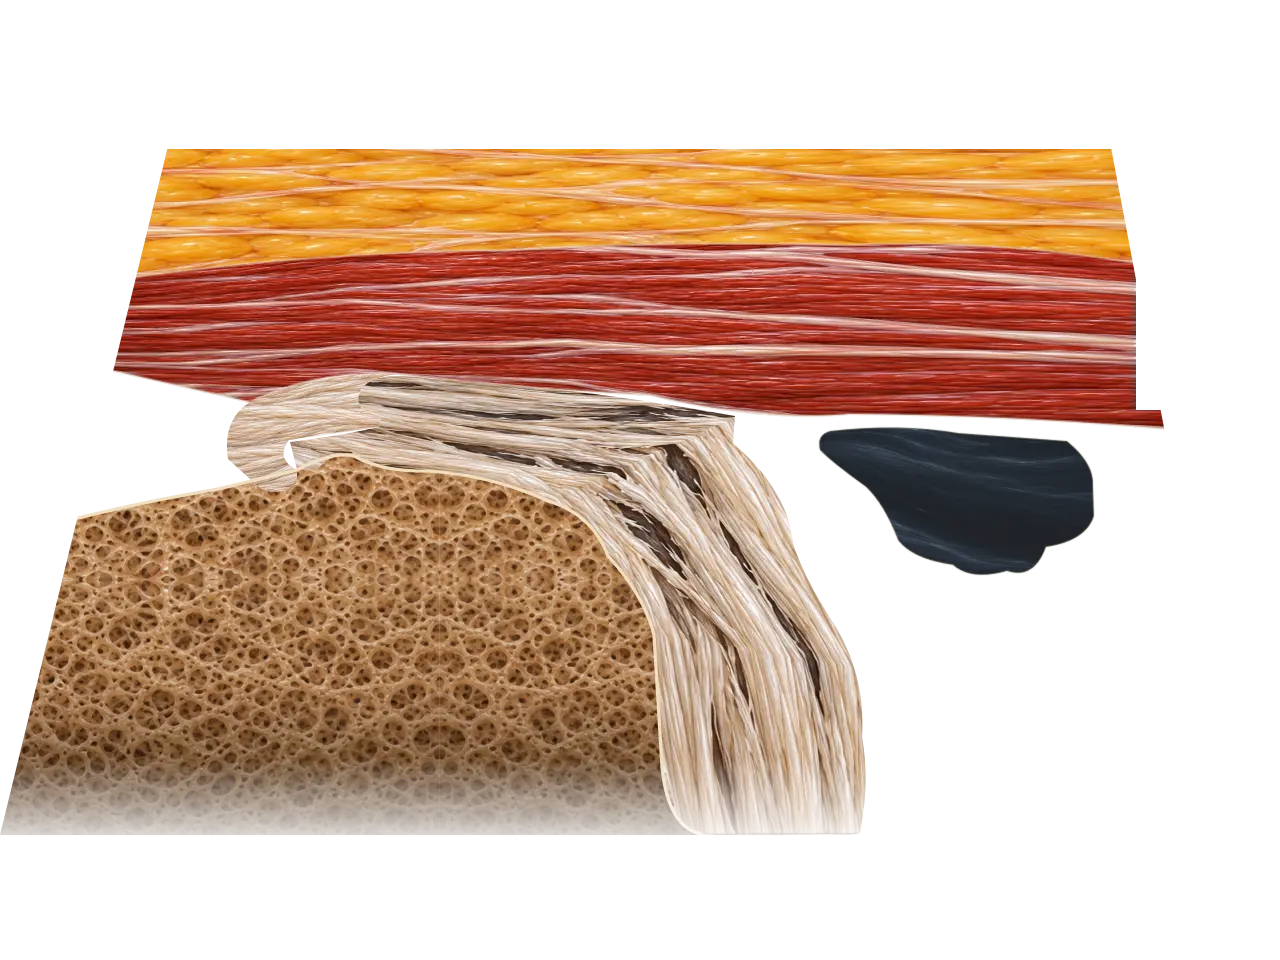
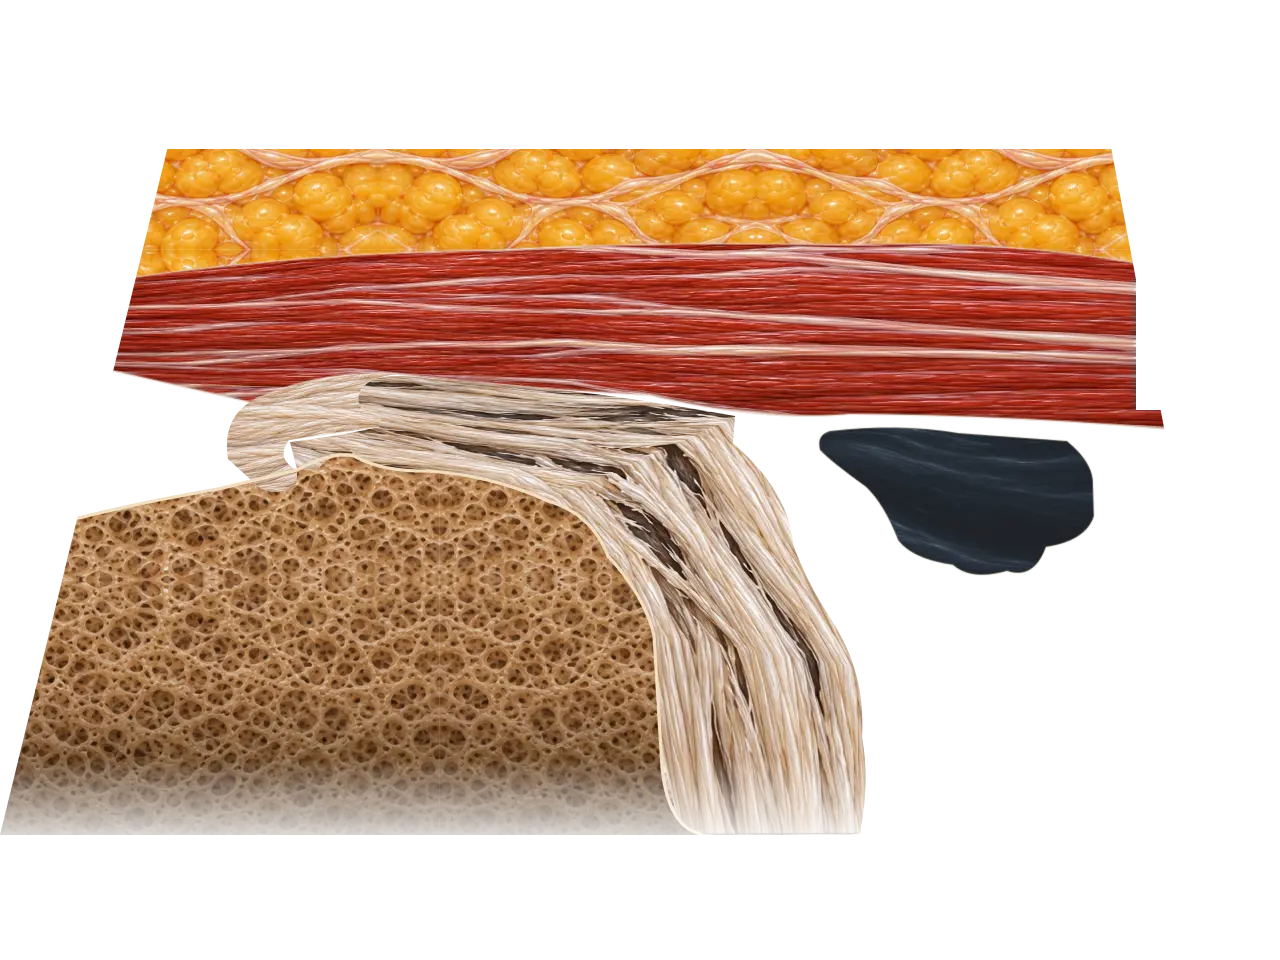
Keep approved adipose lobe proportions and blend hidden headers into the scan background

Changed region(s): [[0.0938, 0.1562, 0.9062, 0.2812]]

diff --git a/assets/ultrasound-presentation.20261016.css b/assets/ultrasound-presentation.20261016.css
@@ -1,2 +1,3 @@
 /* Hide acquisition headers without moving the shared scan/anatomy canvas. */
 img[data-scan-header],video[data-scan-header]{clip-path:inset(var(--scan-header) 0 0 0)}
+.patient-picture:has([data-scan-header]),.knee-picture:has([data-scan-header]),.atlas-demo-picture:has([data-scan-header]){background:#000}

diff --git a/.github/kansei/render_bursa_anatomy.py b/.github/kansei/render_bursa_anatomy.py
@@ -162,6 +162,14 @@ def build(key, view, preview):
     defs.append(f'<g id="bone-tile" clip-path="url(#bone-tile-window)"><use xlink:href="#material" transform="matrix({bx} 0 0 {by} {-crop[0]*bx} {-crop[1]*by})"/></g>')
     tile='<use xlink:href="#bone-tile"/>'
     defs.append(f'<pattern id="bone-material" patternUnits="userSpaceOnUse" width="{tw*2}" height="{th*2}">{tile}<g transform="translate({tw*2} 0) scale(-1 1)">{tile}</g><g transform="translate(0 {th*2}) scale(1 -1)">{tile}</g><g transform="translate({tw*2} {th*2}) scale(-1 -1)">{tile}</g></pattern>')
+    # Adipose lobules keep the reference proportions instead of being stretched
+    # to the long, thin scan region. Only their tissue boundary follows the guide.
+    fx,fy,fw,fh=5,5,630,416
+    fs=.6;ftw,fth=fw*fs,fh*fs
+    defs.append(f'<clipPath id="fat-tile-window"><rect width="{ftw}" height="{fth}"/></clipPath>')
+    defs.append(f'<g id="fat-tile" clip-path="url(#fat-tile-window)"><use xlink:href="#material" transform="matrix({fs} 0 0 {fs} {-fx*fs} {-fy*fs})"/></g>')
+    tile='<use xlink:href="#fat-tile"/>'
+    defs.append(f'<pattern id="fat-material" patternUnits="userSpaceOnUse" width="{ftw*2}" height="{fth*2}">{tile}<g transform="translate({ftw*2} 0) scale(-1 1)">{tile}</g><g transform="translate(0 {fth*2}) scale(1 -1)">{tile}</g><g transform="translate({ftw*2} {fth*2}) scale(-1 -1)">{tile}</g></pattern>')
     shapes=[];checks=[]
     for item in view['regions']:
         ident='region-'+item['name']
@@ -171,7 +179,9 @@ def build(key, view, preview):
         paint=f'<svg overflow="hidden" x="{x}" y="{y}" width="{w}" height="{h}" viewBox="{" ".join(map(str,crop))}" preserveAspectRatio="none"><use xlink:href="#material"/></svg>'
         if item['material']=='bone':
             paint=f'<path d="{item["path"]}" fill="url(#bone-material)"/>'
-        if item['top']:
+        if item['material']=='fat':
+            paint=f'<path d="{item["path"]}" fill="url(#fat-material)"/>'
+        if item['top'] and item['material']!='fat':
             mesh,minimum=mesh_region(item,defs)
             paint+=mesh
             checks.append({'region':item['name'],'minimum_material_jacobian':minimum})
